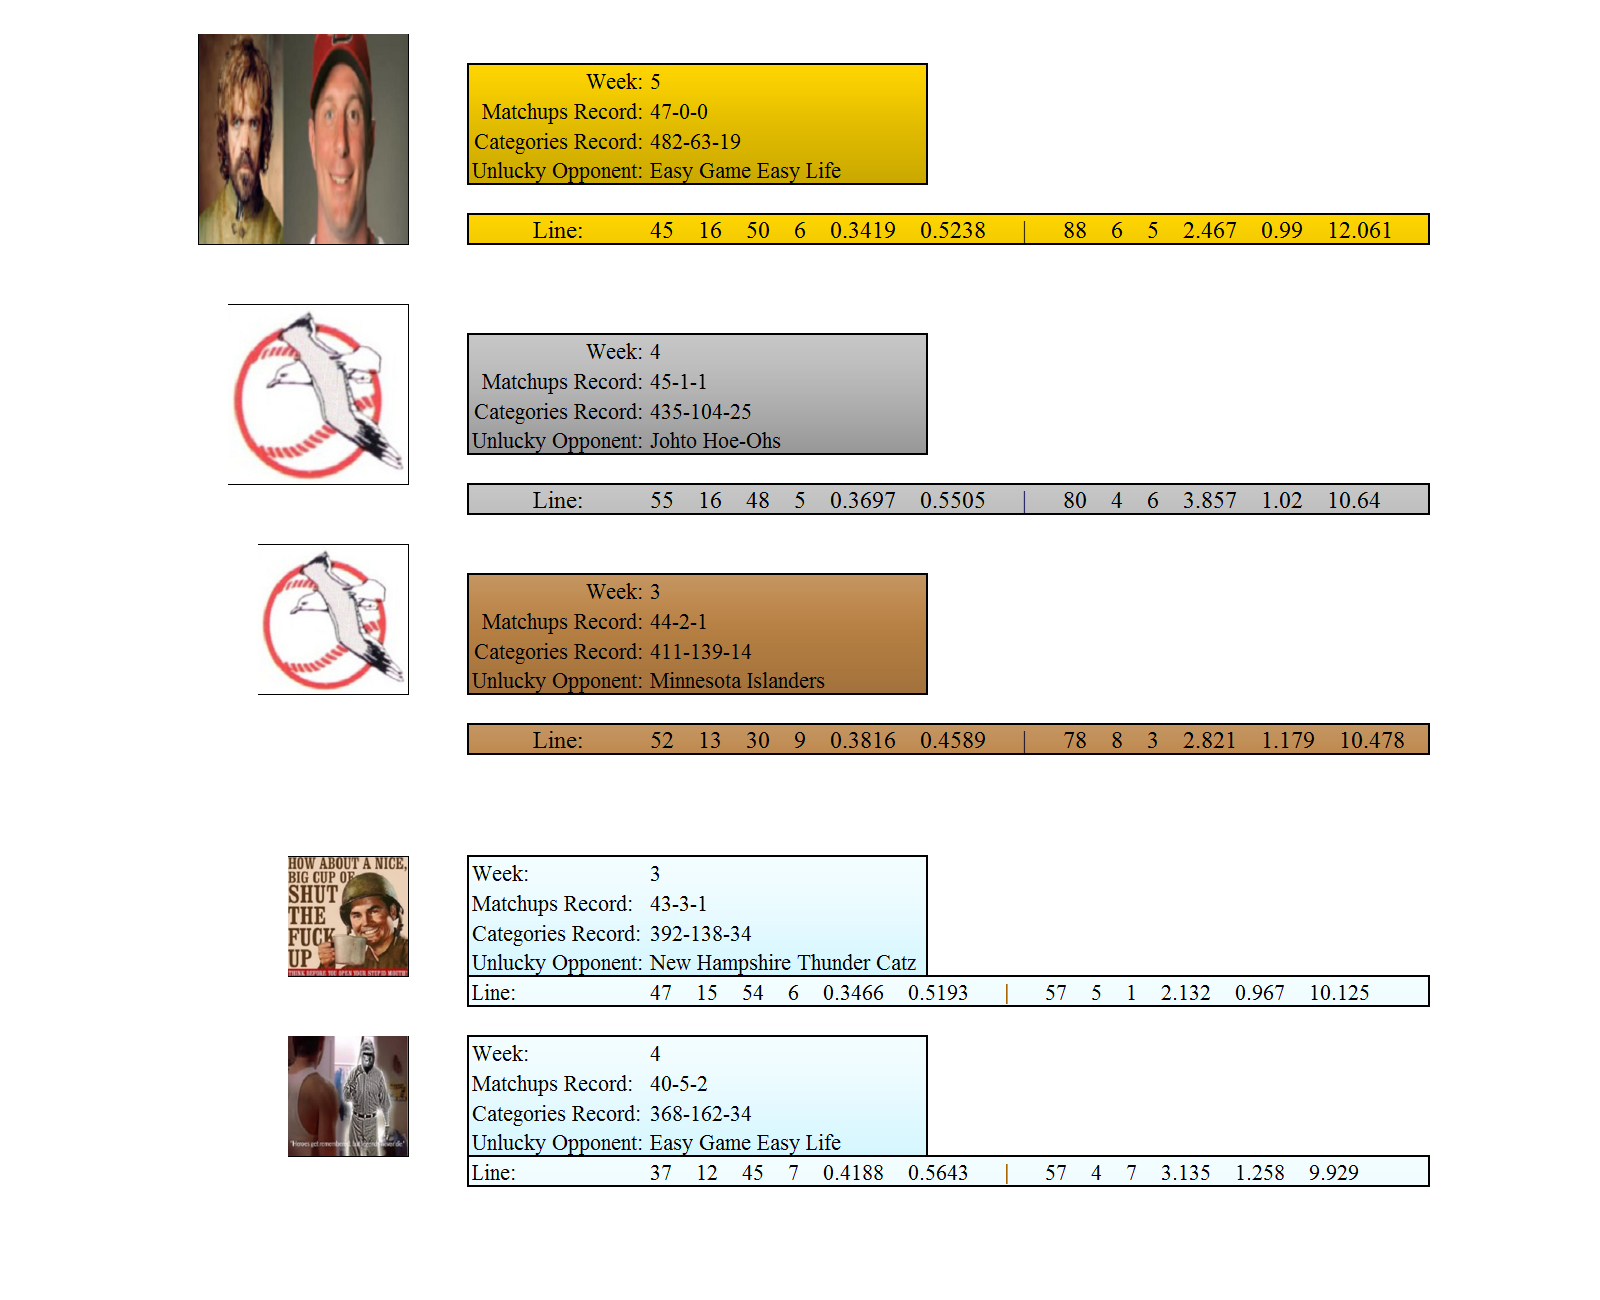
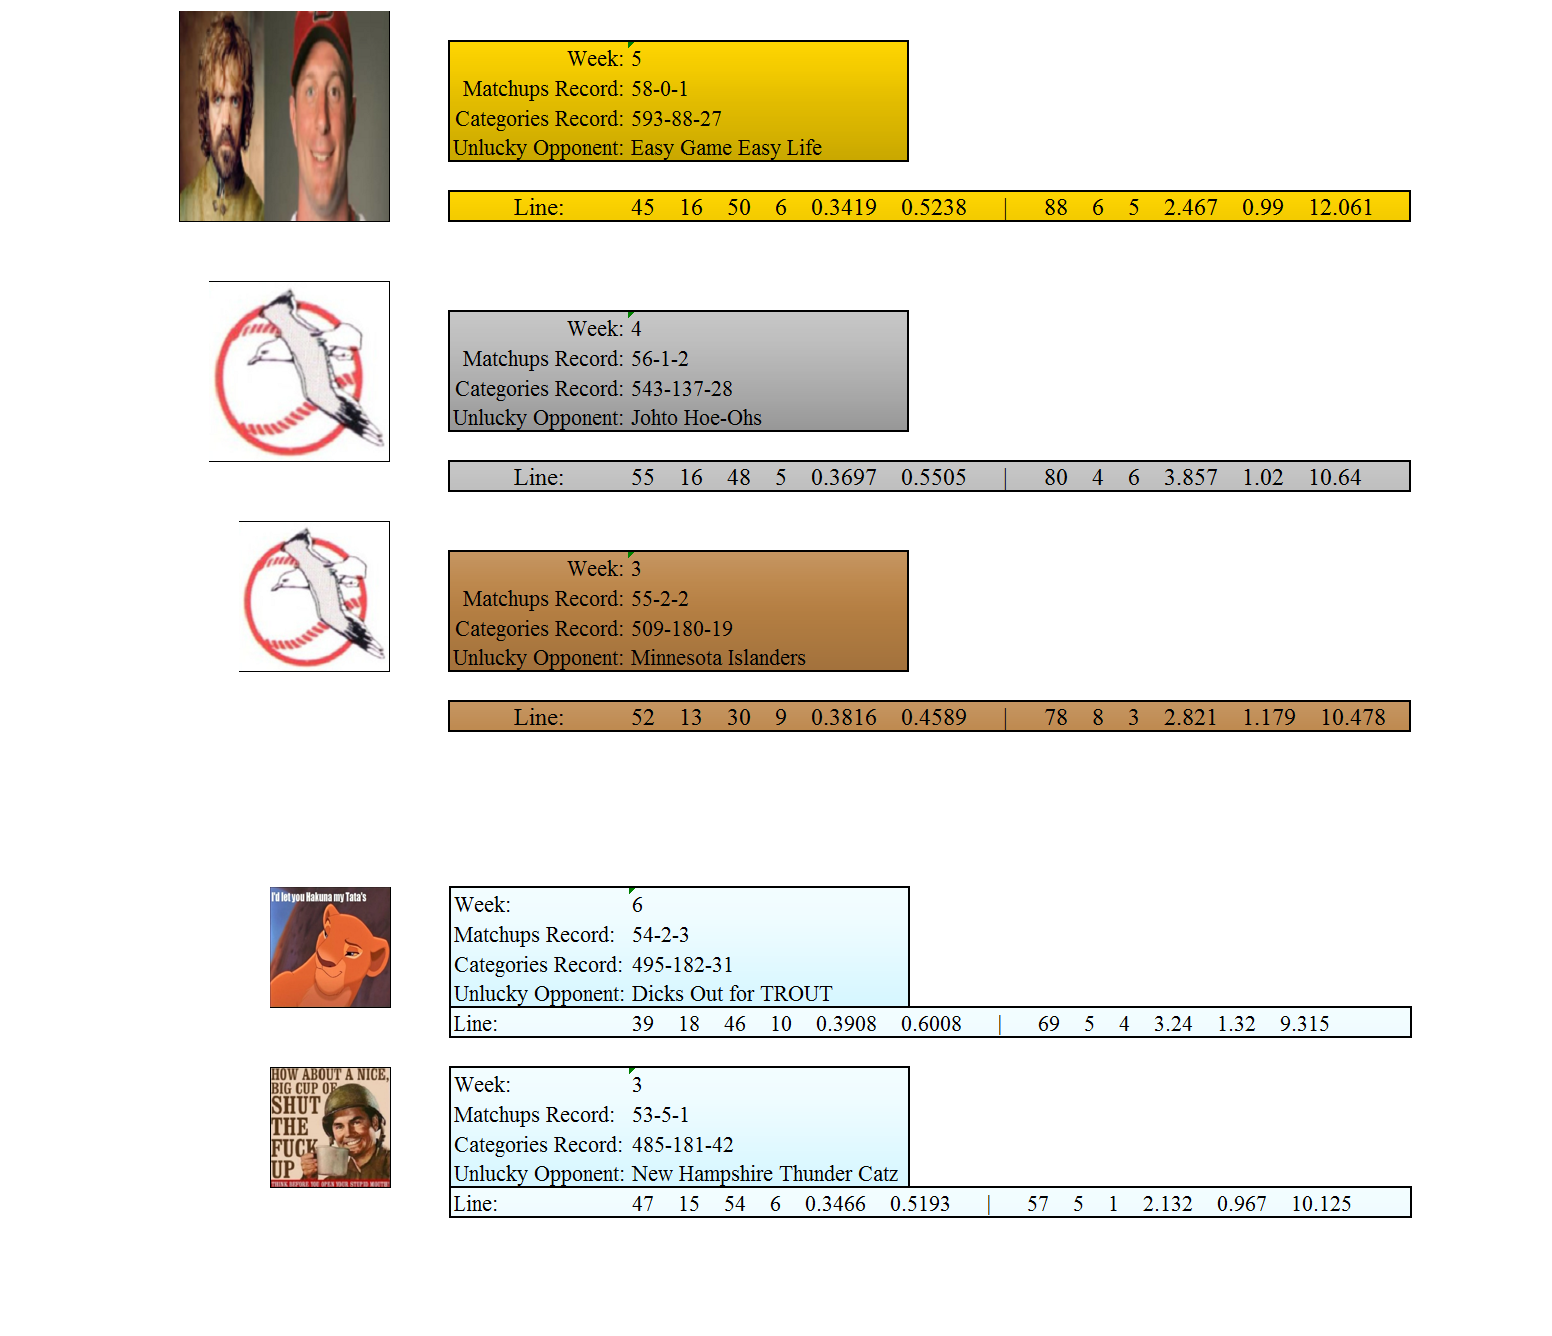
Add files via upload

Changed region(s): [[0.0928, 0.0, 0.9278, 0.5846], [0.1546, 0.6462, 0.8969, 0.9231], [0.1546, 0.4, 0.2474, 0.5538]]

diff --git a/Team Stats/TeamStats.js b/Team Stats/TeamStats.js
@@ -1,4 +1,4 @@
-var week = 5  //Needs to be updted weekly
+var week = 6  //Needs to be updted weekly
 
 var Week1Stats = [
 [51,	17,	55,	6,	0.3085,	0.4108,	59,		5,	5,	3.553,	1.326,	8.384],
@@ -72,6 +72,21 @@ var Week5Stats = [
 [40,	13,	50,	2,	0.3150,	0.4306,	56,	5,	4,	3.140,	1.081,	8.791],
 [40,	17,	32,	4,	0.2958,	0.4659,	62,	7,	3,	2.926,	1.108,	8.246],
 [42,	16,	50,	1,	0.2991,	0.4603,	59,	5,	2,	3.653,	1.059,	9.371]
+]
+
+var Week6Stats = [
+[29,	13,	38,	3,	0.3256,	0.4474,	71,	5,	1,	3.309,	1.162,	9.397],
+[34,	12,	40,	6,	0.3603,	0.4731,	63,	6,	5,	3.068,	1.023,	7.732],
+[50,	18,	36,	3,	0.3397,	0.5144,	50,	2,	0,	4.333,	1.204,	8.333],
+[45,	9,	39,	5,	0.3242,	0.4515,	83,	8,	2,	3.054,	1.208,	10.14],
+[35,	6,	23,	11,	0.3412,	0.4318,	66,	5,	6,	4.655,	1.256,	8.778],
+[39,	15,	50,	2,	0.3500,	0.5131,	53,	6,	0,	2.714,	1.206,	7.571],
+[48,	9,	30,	3,	0.3271,	0.4007,	76,	5,	4,	4.817,	1.183,	9.634],
+[39,	18,	46,	10,	0.3908,	0.6008,	69,	5,	4,	3.240,	1.320,	9.315],
+[49,	19,	50,	4,	0.4050,	0.6612,	49,	1,	3,	3.942,	1.161,	9.657],
+[42,	13,	47,	5,	0.3711,	0.4900,	55,	3,	5,	2.732,	1.196,	8.839],
+[43,	14,	43,	7,	0.3583,	0.5148,	59,	2,	2,	5.072,	1.740,	8.801],
+[49,	15,	56,	8,	0.3705,	0.5438,	55,	3,	7,	5.050,	1.317,	10.683]
 ]
 
 //Need to have the correct number of matrices of data

diff --git a/Matchups/Matchups_W6.html b/Matchups/Matchups_W6.html
@@ -49,7 +49,7 @@
 			<li class="Weeks_LI"><a class="Weeks_A" href="Matchups_W20.html">20</a></li>
 		</ul>
 
-		
+		<img class="Stats_Img" src=".././Matchups_Pics/Matchups_6.png">
 
 	</body>
 

diff --git a/Leaders/Leaders_W6.html b/Leaders/Leaders_W6.html
@@ -49,7 +49,7 @@
 			<li class="Weeks_LI"><a class="Weeks_A" href="Leaders_W20.html">20</a></li>
 		</ul>
 
-		
+		<img class="Stats_Img" src=".././Leaders_Pics/Leaders_6.png">
 
 	</body>
 
